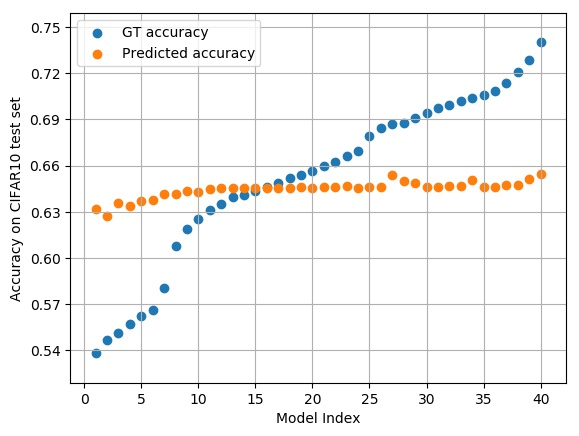
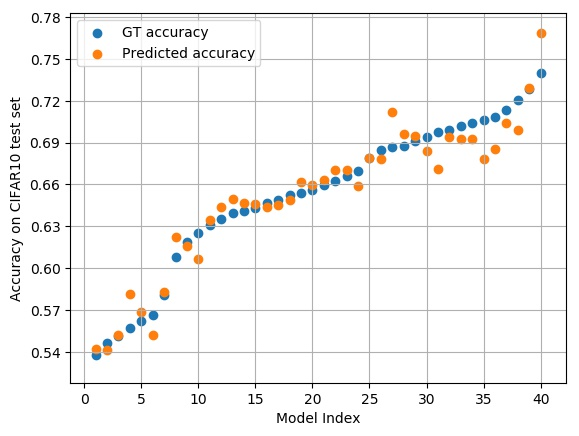
fix SVR

diff --git a/scripts/run_experiments.py b/scripts/run_experiments.py
@@ -198,9 +198,9 @@ def run_experiments(dataset, output_dir):
 		('AdaBoost (N=50)', lambda : ensemble.AdaBoostRegressor(n_estimators = 50)),
 		('AdaBoost (N=100)', lambda : ensemble.AdaBoostRegressor(n_estimators = 100)),
 		('AdaBoost (N=200)', lambda : ensemble.AdaBoostRegressor(n_estimators = 200)),
-		('SVR (RBF kernel)', lambda : svm.SVR(kernel = 'rbf')),
-		('SVR (Polynomial kernel)', lambda : svm.SVR(kernel = 'poly')),
-		('SVR (Linear kernel)', lambda : svm.SVR(kernel = 'linear')),
+		('SVR (RBF kernel)', lambda : svm.SVR(kernel = 'rbf', epsilon = 0.001, C=1e-1)),
+		('SVR (Polynomial kernel)', lambda : svm.SVR(kernel = 'poly', epsilon = 0.001, C=1e-1)),
+		('SVR (Linear kernel)', lambda : svm.SVR(kernel = 'linear', epsilon = 0.001, C=1e-1)),
 		('Random Forest (N=25)', lambda : ensemble.RandomForestRegressor(n_estimators=25)),
 		('Random Forest (N=50)', lambda : ensemble.RandomForestRegressor(n_estimators=50)),
 		('Random Forest (N=100)', lambda : ensemble.RandomForestRegressor(n_estimators=100)),
